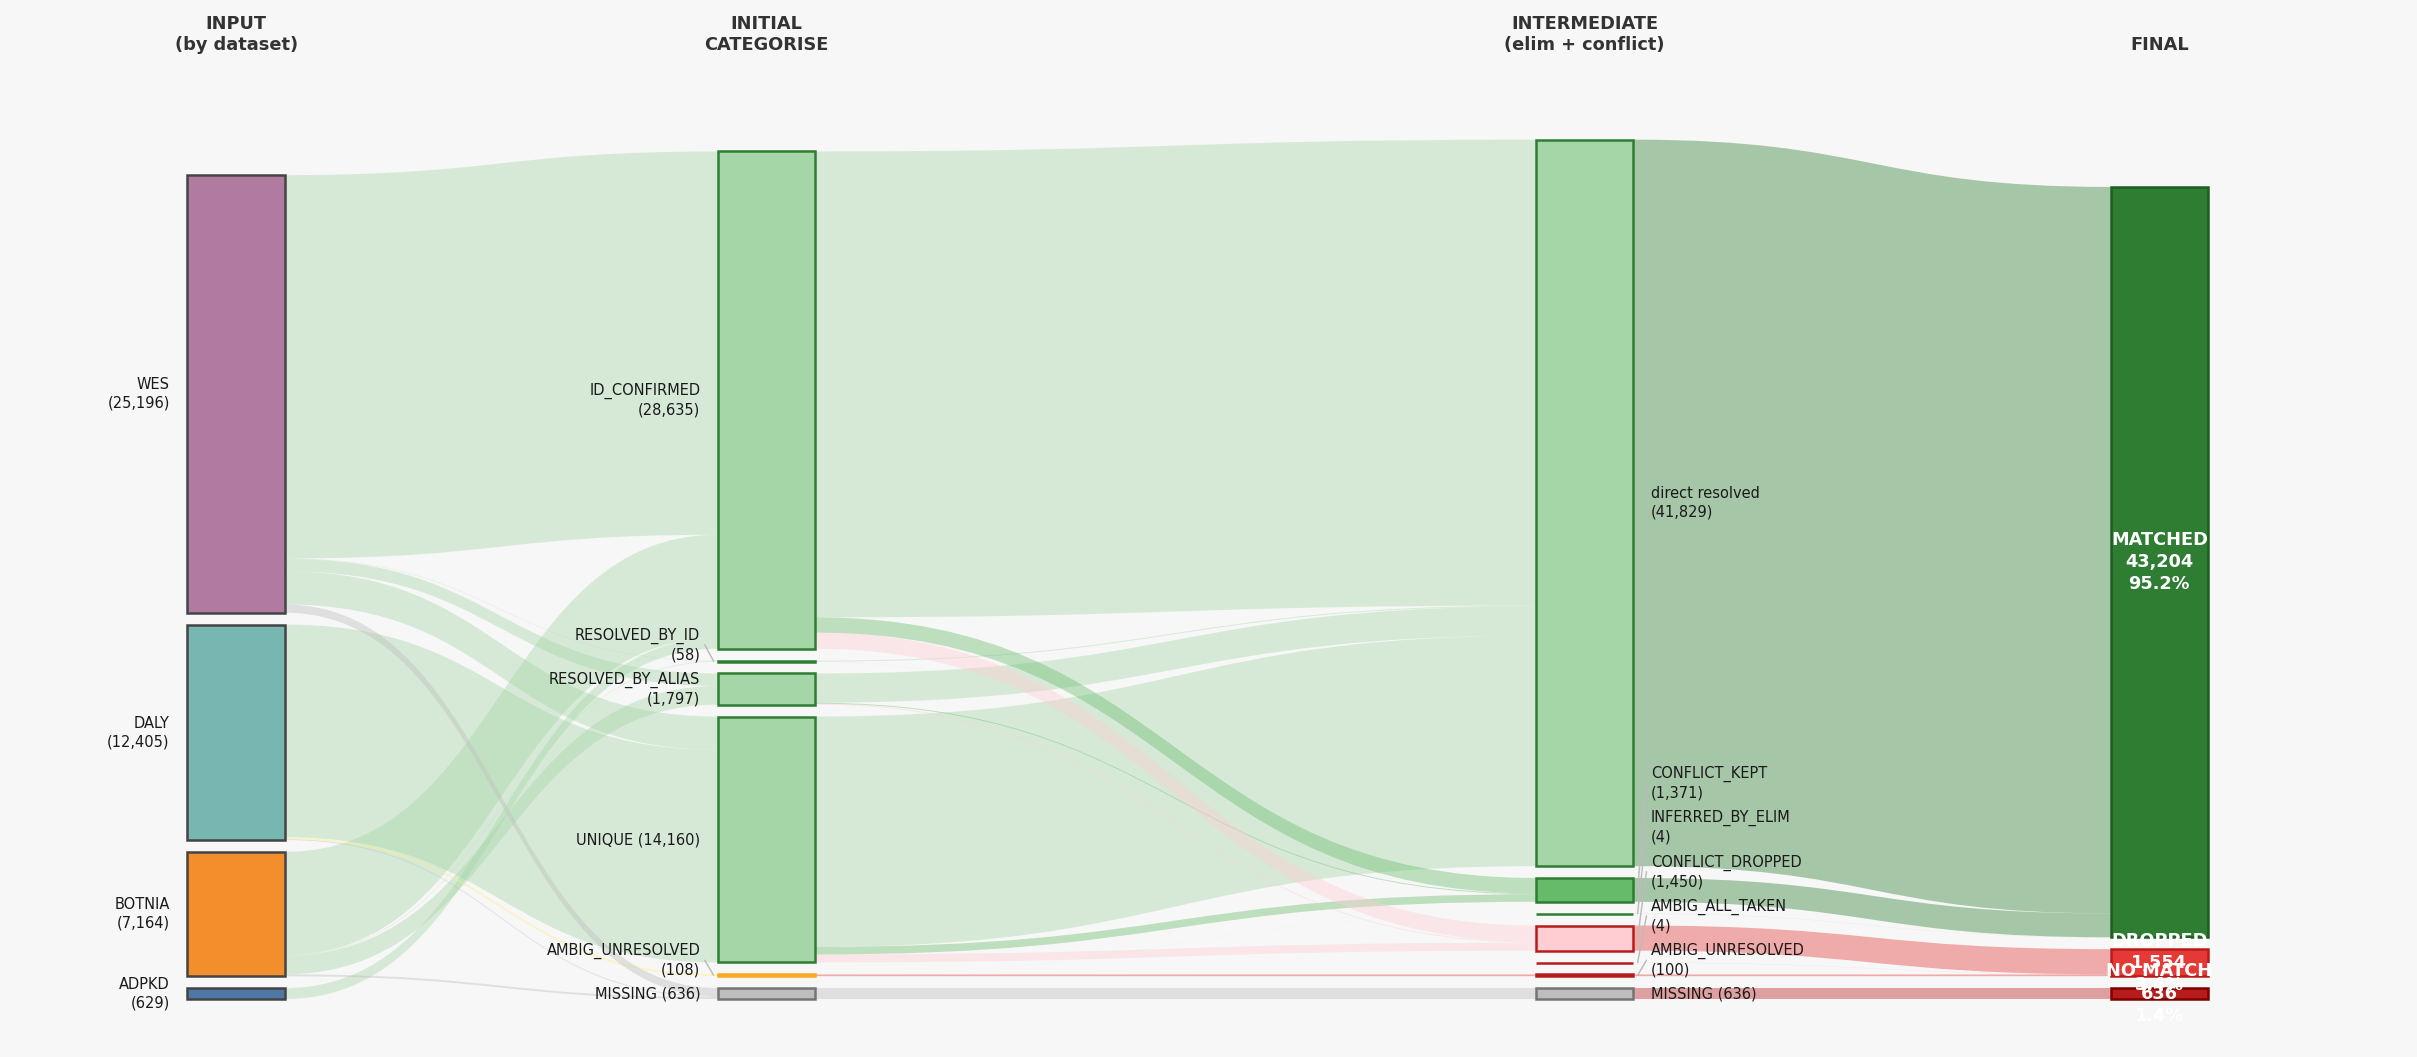
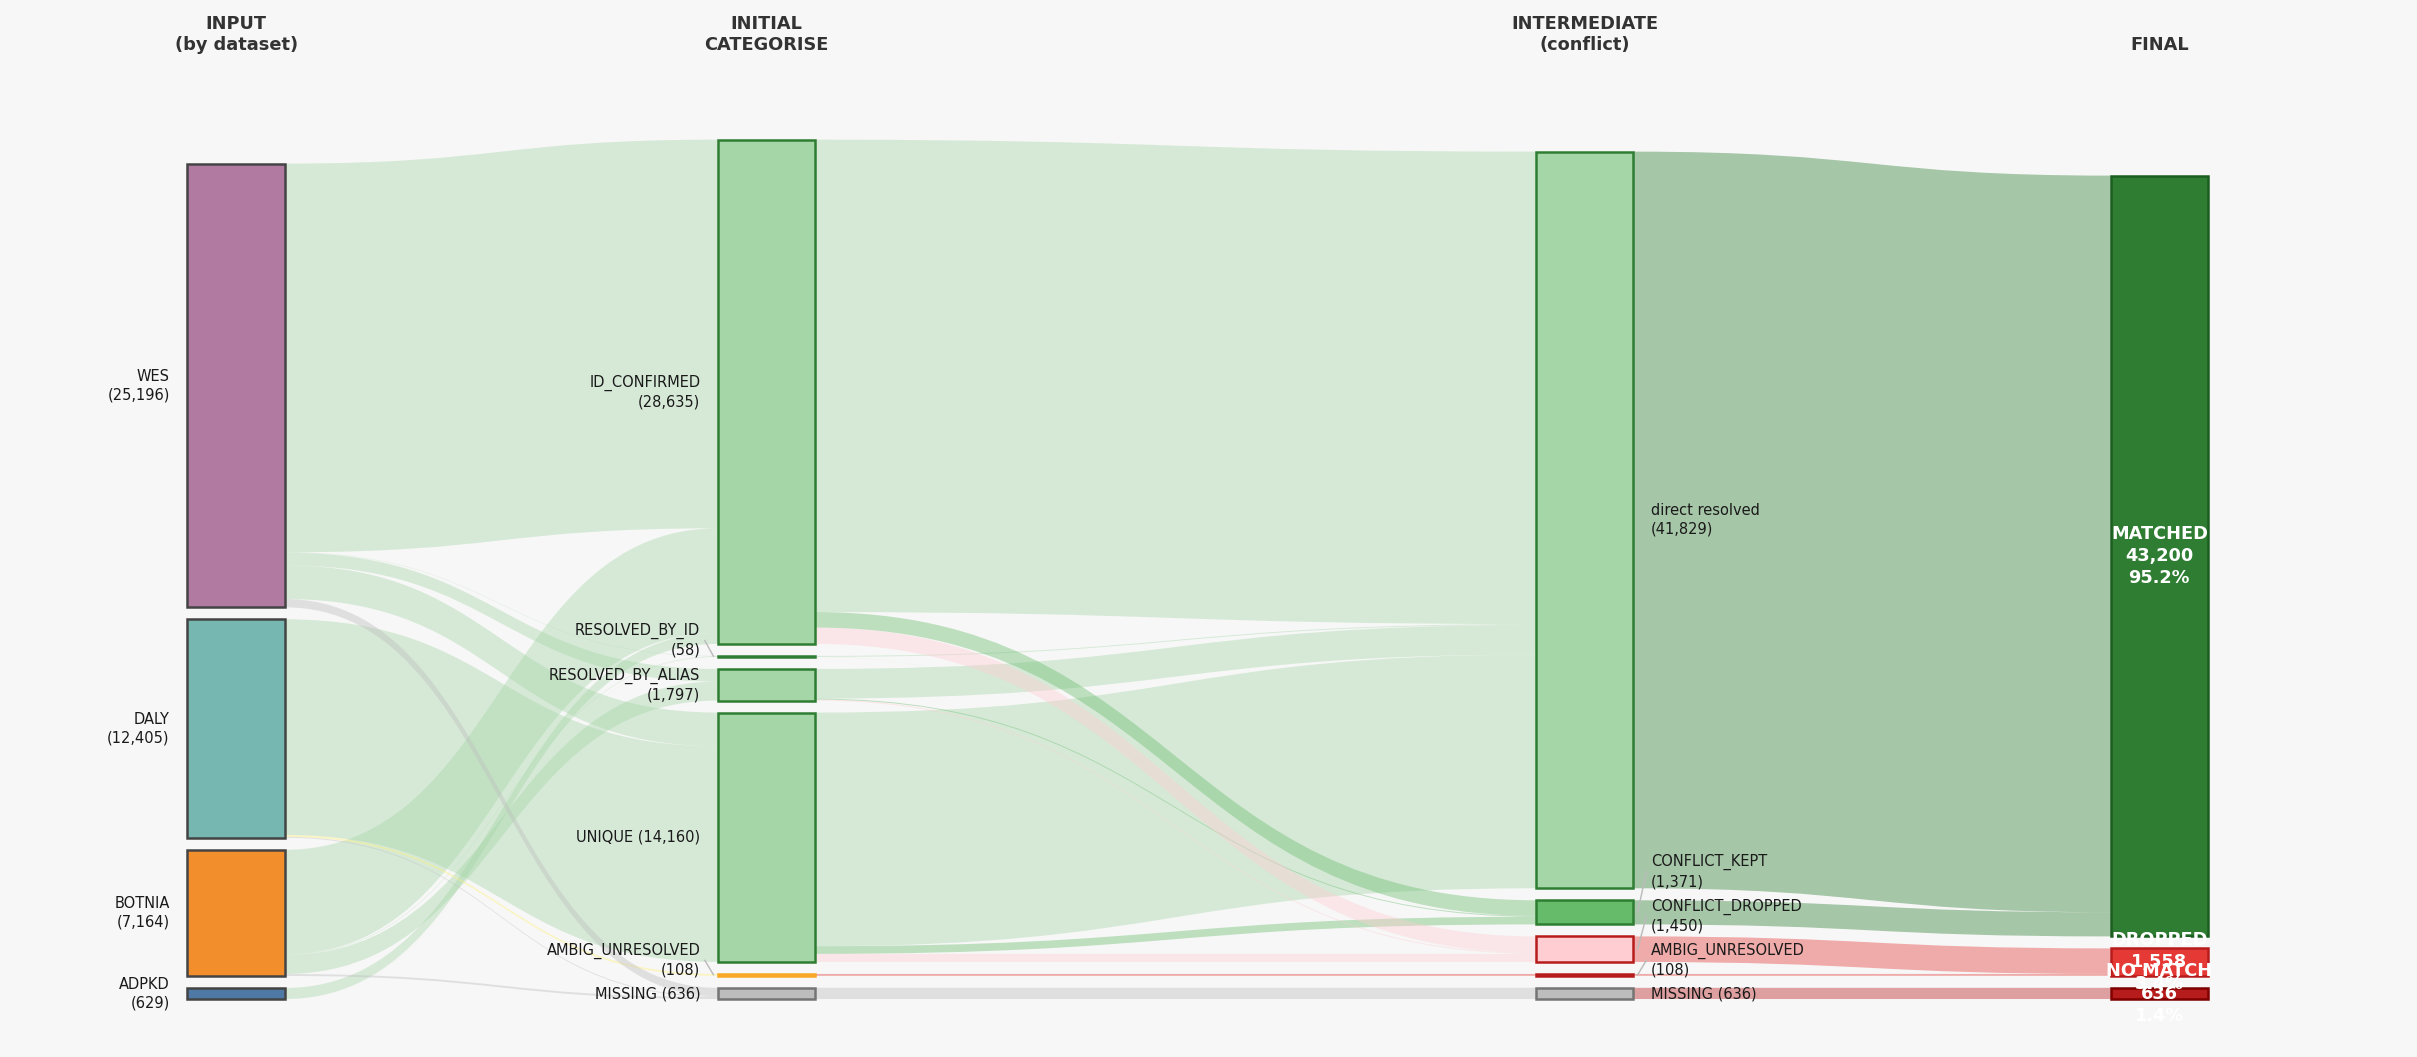
added README automation"

diff --git a/scripts/update_readme.py b/scripts/update_readme.py
@@ -1,0 +1,40 @@
+#!/usr/bin/env python3
+"""update_readme.py — inject file contents into README.md between path markers.
+
+Any block in README.md bounded by:
+    <!-- BEGIN:relative/path/to/file -->
+    ...
+    <!-- END:relative/path/to/file -->
+is replaced with the current contents of that file (path relative to repo root).
+
+Usage:
+    python scripts/update_readme.py
+"""
+import pathlib, re, sys
+
+REPO   = pathlib.Path(__file__).resolve().parent.parent
+README = REPO / "README.md"
+
+MARKER = re.compile(
+    r"<!-- BEGIN:(?P<path>[^>]+) -->\n(?:.*?\n)?<!-- END:(?P=path) -->",
+    re.DOTALL,
+)
+
+def update(text):
+    changed = 0
+    def replace(m):
+        nonlocal changed
+        rel   = m.group("path").strip()
+        src   = REPO / rel
+        if not src.exists():
+            print(f"  SKIP (not found): {rel}", file=sys.stderr)
+            return m.group(0)
+        content = src.read_text().strip()
+        changed += 1
+        print(f"  inject: {rel} ({len(content):,} chars)")
+        return f"<!-- BEGIN:{rel} -->\n{content}\n<!-- END:{rel} -->"
+    return MARKER.sub(replace, text), changed
+
+text, n = update(README.read_text())
+README.write_text(text)
+print(f"Done — {n} block(s) updated in {README.relative_to(REPO)}")

diff --git a/README.md b/README.md
@@ -6,12 +6,13 @@ Scripts and WDL workflows for QC-filtering and sample-matching multiple exome co
 
 ## Summary results
 
+<!-- BEGIN:data/FG_exome_resolved_stats.md -->
 ### Mapping Totals
 
 | GROUP | TOTAL | ADPKD | BOTNIA | DALY | WES | PCT | NOTES |
 | --- | --- | --- | --- | --- | --- | --- | --- |
-| MATCHED | 43204 | 624 | 7033 | 11955 | 23592 | 95.2% | samples with a final QRY→REF mapping in the output |
-| DROPPED | 1554 | 5 | 20 | 397 | 1132 | 3.4% | found by KING but excluded from final mapping |
+| MATCHED | 43200 | 624 | 7037 | 11845 | 23694 | 95.2% | samples with a final QRY→REF mapping in the output |
+| DROPPED | 1558 | 5 | 16 | 507 | 1030 | 3.4% | found by KING but excluded from final mapping |
 | NO MATCH | 636 | 0 | 111 | 53 | 472 | 1.4% | absent from ref or below KING concordance threshold |
 | TOTAL | 45394 | 629 | 7164 | 12405 | 25196 | 100.0% |  |
 
@@ -21,14 +22,13 @@ Scripts and WDL workflows for QC-filtering and sample-matching multiple exome co
 | --- | --- | --- | --- | --- | --- | --- | --- | --- |
 | MATCHED | ID_CONFIRMED | 28362 | 601 | 5937 | 0 | 21824 | 62.5% | single candidate; KING match confirmed by matching IDs |
 | MATCHED | RESOLVED_BY_ID | 58 | 6 | 31 | 0 | 21 | 0.1% | twins in ref; query ID matched one candidate |
-| MATCHED | RESOLVED_BY_ALIAS | 1883 | 0 | 1055 | 347 | 481 | 4.1% | twins in ref; candidates are known aliases of each other |
-| MATCHED | INFERRED_BY_ELIMINATION | 4 | 0 | 0 | 4 | 0 | 0.0% | twins in ref; all other candidates already claimed |
-| MATCHED | UNIQUE | 11526 | 0 | 1 | 11480 | 45 | 25.4% | single candidate; matched by genetics only |
-| MATCHED | CONFLICT_KEPT | 1371 | 17 | 9 | 124 | 1221 | 3.0% | contested ref ID; kept after priority tiebreak; 1371 ref IDs contested, avg 31.5 queries/ref |
-| DROPPED | CONFLICT_DROPPED | 1450 | 5 | 20 | 293 | 1132 | 3.2% | contested ref ID; lost tiebreak; REF_MAPPED = NA |
-| DROPPED | AMBIGUOUS_UNRESOLVED | 100 | 0 | 0 | 100 | 0 | 0.2% | multiple ref candidates; no resolution possible |
-| DROPPED | AMBIGUOUS_ALL_TAKEN | 4 | 0 | 0 | 4 | 0 | 0.0% | multiple ref candidates; all already claimed |
+| MATCHED | RESOLVED_BY_ALIAS | 1529 | 0 | 1054 | 0 | 475 | 3.4% | twins in ref; candidates are known aliases of each other |
+| MATCHED | UNIQUE | 11880 | 0 | 2 | 11827 | 51 | 26.2% | single candidate; matched by genetics only |
+| MATCHED | CONFLICT_KEPT | 1371 | 17 | 13 | 18 | 1323 | 3.0% | contested ref ID; kept after priority tiebreak; 1371 ref IDs contested, avg 31.5 queries/ref |
+| DROPPED | CONFLICT_DROPPED | 1450 | 5 | 16 | 399 | 1030 | 3.2% | contested ref ID; lost tiebreak; REF_MAPPED = NA |
+| DROPPED | AMBIGUOUS_UNRESOLVED | 108 | 0 | 0 | 108 | 0 | 0.2% | multiple ref candidates; no resolution possible |
 | NO MATCH | MISSING | 636 | 0 | 111 | 53 | 472 | 1.4% | no KING match found |
+<!-- END:data/FG_exome_resolved_stats.md -->
 
 ### Mapping flowchart
 
@@ -141,24 +141,23 @@ python scripts/resolve_mapping.py combined_summary.tsv [--out my_mapping.tsv] [-
 
 Handles two real-world complications: twins in the reference (one query matches multiple ref candidates) and true duplicates within a query cohort (multiple queries match the same ref ID).
 
-**Three passes:**
+**Two passes:**
 
 1. **Categorise** — each row classified independently:
    - Single candidate, IDs match → `ID_CONFIRMED` (genetic + ID agreement, strongest evidence)
    - Single candidate, IDs differ → `UNIQUE` (genetics only, the normal case)
    - Multiple candidates, query ID is one of them → `RESOLVED_BY_ID` (twins in ref; ID identifies the right one)
-   - Multiple candidates, no ID match → `AMBIGUOUS_UNRESOLVED`
+   - Multiple candidates, query is a known alias of one candidate → `RESOLVED_BY_ALIAS`
+   - Multiple candidates, no resolution → `AMBIGUOUS_UNRESOLVED`
 
-2. **Disambiguate by elimination** — for `AMBIGUOUS_UNRESOLVED` rows, candidates already claimed by resolved rows are removed; repeats until stable. One free candidate left → `INFERRED_BY_ELIMINATION`. Zero free candidates → `AMBIGUOUS_ALL_TAKEN`.
-
-3. **Surjectivity check** — each REF ID must appear at most once in the final mapping. Conflicts (multiple queries claiming the same ref) are broken by random draw for now (`CONFLICT_KEPT[orig]` / `CONFLICT_DROPPED[orig]`). TODO: replace with QC tiebreaker (concordance score, het-F, n_snps).
+2. **Surjectivity check** — each REF ID must appear at most once in the final mapping. Conflicts (multiple queries claiming the same ref) are broken by random draw for now (`CONFLICT_KEPT[orig]` / `CONFLICT_DROPPED[orig]`). TODO: replace with QC tiebreaker (concordance score, het-F, n_snps).
 
 **Output groups:**
 
 | Group | Statuses | Meaning |
 |-------|----------|---------|
-| **MATCHED** | `ID_CONFIRMED`, `RESOLVED_BY_ID`, `INFERRED_BY_ELIMINATION`, `UNIQUE`, `CONFLICT_KEPT[...]` | Has a final QRY→REF mapping in the output |
-| **DROPPED** | `CONFLICT_DROPPED[...]`, `AMBIGUOUS_UNRESOLVED`, `AMBIGUOUS_ALL_TAKEN` | Found by KING but excluded from final mapping |
+| **MATCHED** | `ID_CONFIRMED`, `RESOLVED_BY_ID`, `RESOLVED_BY_ALIAS`, `UNIQUE`, `CONFLICT_KEPT[...]` | Has a final QRY→REF mapping in the output |
+| **DROPPED** | `CONFLICT_DROPPED[...]`, `AMBIGUOUS_UNRESOLVED` | Found by KING but excluded from final mapping |
 | **NO MATCH** | `MISSING` | No KING match found |
 
 **Alias handling** — an optional tab-delimited file maps QRY IDs that are known aliases of REF IDs (one alias group per line, REF ID first). This is used solely to resolve QRY-side ambiguity: only the query is looked up in the alias file; REF candidates are treated as ground truth and never cross-referenced. A query in the alias file whose single candidate is listed as its alias → `RESOLVED_BY_ALIAS`; a query with multiple candidates where exactly one is in the query's alias group → also `RESOLVED_BY_ALIAS`. Alias IDs cannot appear in `REF_MAPPED`; a post-processing check enforces this.
@@ -169,69 +168,74 @@ Handles two real-world complications: twins in the reference (one query matches 
 python scripts/resolve_mapping.py --test
 ```
 
-The output below shows the built-in input, the alias groups used, and the resolved mapping for each row:
+The tables below show the built-in input, alias groups, resolved mapping, and check results (auto-updated by `scripts/resolve_mapping.py --test`):
 
-```
-====================================================================
-                    TEST MODE — built-in dataset                    
-====================================================================
+<!-- BEGIN:test/output.md -->
+### Input
 
-── INPUT ───────────────────────────────────────────────────────────
-DATASET       QUERY    DUPLICATES
-    ds1      REF001        REF001
-    ds1      QRY001        REF002
-    ds1   QRY_ALIAS   REF_ALIAS_A
-    ds1      REF_T1 REF_T1,REF_T2
-    ds1 QRY_T_ALIAS REF_T2,REF_T3
-    ds2      QRY003 REF003,REF004
-    ds2      QRY004        REF003
-    ds2      QRY005 REF005,REF006
-    ds2      QRY006        REF005
-    ds2      QRY007        REF006
-    ds2      QRY008       MISSING
-    ds2      QRY009        REF007
-    ds2      QRY010        REF007
-    ds2      QRY011 REF008,REF009
+| DATASET | QUERY | DUPLICATES |
+| --- | --- | --- |
+| ds1 | REF001 | REF001 |
+| ds1 | QRY001 | REF002 |
+| ds1 | QRY_ALIAS | REF_ALIAS_A |
+| ds1 | REF_T1 | REF_T1,REF_T2 |
+| ds1 | QRY_T_ALIAS | REF_T2,REF_T3 |
+| ds2 | QRY003 | REF003,REF004 |
+| ds2 | QRY004 | REF003 |
+| ds2 | QRY005 | REF005,REF006 |
+| ds2 | QRY006 | REF005 |
+| ds2 | QRY007 | REF006 |
+| ds2 | QRY008 | MISSING |
+| ds2 | QRY009 | REF007 |
+| ds2 | QRY010 | REF007 |
+| ds2 | QRY011 | REF008,REF009 |
 
-── ALIASES ─────────────────────────────────────────────────────────
-  QRY_ALIAS  ↔  REF_ALIAS_A
-  QRY_T_ALIAS  ↔  REF_T2
+### Aliases
 
-── OUTPUT ──────────────────────────────────────────────────────────
-DATASET       QUERY    DUPLICATES  REF_MAPPED                   STATUS              ALIAS_NOTE
-    ds1      REF001        REF001      REF001             ID_CONFIRMED                       —
-    ds1      QRY001        REF002      REF002                   UNIQUE                       —
-    ds1   QRY_ALIAS   REF_ALIAS_A REF_ALIAS_A        RESOLVED_BY_ALIAS                       —
-    ds1      REF_T1 REF_T1,REF_T2      REF_T1           RESOLVED_BY_ID                       —
-    ds1 QRY_T_ALIAS REF_T2,REF_T3      REF_T2        RESOLVED_BY_ALIAS                       —
-    ds2      QRY003 REF003,REF004      REF004  INFERRED_BY_ELIMINATION query_not_in_alias_file
-    ds2      QRY004        REF003      REF003                   UNIQUE                       —
-    ds2      QRY005 REF005,REF006   AMBIGUOUS      AMBIGUOUS_ALL_TAKEN query_not_in_alias_file
-    ds2      QRY006        REF005      REF005                   UNIQUE                       —
-    ds2      QRY007        REF006      REF006                   UNIQUE                       —
-    ds2      QRY008       MISSING          NA                  MISSING                       —
-    ds2      QRY009        REF007      REF007    CONFLICT_KEPT[UNIQUE]                       —
-    ds2      QRY010        REF007          NA CONFLICT_DROPPED[UNIQUE]                       —
-    ds2      QRY011 REF008,REF009   AMBIGUOUS     AMBIGUOUS_UNRESOLVED query_not_in_alias_file
+| Group |
+| --- |
+| `QRY_ALIAS` ↔ `REF_ALIAS_A` |
+| `QRY_T_ALIAS` ↔ `REF_T2` |
 
-── CHECKS ──────────────────────────────────────────────────────────
-  OK   REF001         status=ID_CONFIRMED                     ref=REF001
-  OK   QRY001         status=UNIQUE                           ref=REF002
-  OK   QRY_ALIAS      status=RESOLVED_BY_ALIAS                ref=REF_ALIAS_A
-  OK   REF_T1         status=RESOLVED_BY_ID                   ref=REF_T1
-  OK   QRY_T_ALIAS    status=RESOLVED_BY_ALIAS                ref=REF_T2
-  OK   QRY003         status=INFERRED_BY_ELIMINATION          ref=REF004
-  OK   QRY004         status=UNIQUE                           ref=REF003
-  OK   QRY005         status=AMBIGUOUS_ALL_TAKEN              ref=AMBIGUOUS
-  OK   QRY006         status=UNIQUE                           ref=REF005
-  OK   QRY007         status=UNIQUE                           ref=REF006
-  OK   QRY008         status=MISSING                          ref=NA
-  OK   QRY011         status=AMBIGUOUS_UNRESOLVED             ref=AMBIGUOUS
-  OK   QRY009+QRY010   1×CONFLICT_KEPT + 1×CONFLICT_DROPPED: yes
+### Output
 
-  13/13 checks passed — all passed
+| DATASET | QUERY | DUPLICATES | REF_MAPPED | STATUS | ALIAS_NOTE |
+| --- | --- | --- | --- | --- | --- |
+| ds1 | REF001 | REF001 | REF001 | ID_CONFIRMED | — |
+| ds1 | QRY001 | REF002 | REF002 | UNIQUE | — |
+| ds1 | QRY_ALIAS | REF_ALIAS_A | REF_ALIAS_A | RESOLVED_BY_ALIAS | — |
+| ds1 | REF_T1 | REF_T1,REF_T2 | REF_T1 | RESOLVED_BY_ID | — |
+| ds1 | QRY_T_ALIAS | REF_T2,REF_T3 | REF_T2 | RESOLVED_BY_ALIAS | — |
+| ds2 | QRY003 | REF003,REF004 | AMBIGUOUS | AMBIGUOUS_UNRESOLVED | query_not_in_alias_file |
+| ds2 | QRY004 | REF003 | REF003 | UNIQUE | — |
+| ds2 | QRY005 | REF005,REF006 | AMBIGUOUS | AMBIGUOUS_UNRESOLVED | query_not_in_alias_file |
+| ds2 | QRY006 | REF005 | REF005 | UNIQUE | — |
+| ds2 | QRY007 | REF006 | REF006 | UNIQUE | — |
+| ds2 | QRY008 | MISSING | NA | MISSING | — |
+| ds2 | QRY009 | REF007 | REF007 | CONFLICT_KEPT[UNIQUE] | — |
+| ds2 | QRY010 | REF007 | NA | CONFLICT_DROPPED[UNIQUE] | — |
+| ds2 | QRY011 | REF008,REF009 | AMBIGUOUS | AMBIGUOUS_UNRESOLVED | query_not_in_alias_file |
 
-```
+### Checks
+
+| QUERY | STATUS | REF_MAPPED |  |
+| --- | --- | --- | --- |
+| REF001 | ID_CONFIRMED | REF001 | ✓ |
+| QRY001 | UNIQUE | REF002 | ✓ |
+| QRY_ALIAS | RESOLVED_BY_ALIAS | REF_ALIAS_A | ✓ |
+| REF_T1 | RESOLVED_BY_ID | REF_T1 | ✓ |
+| QRY_T_ALIAS | RESOLVED_BY_ALIAS | REF_T2 | ✓ |
+| QRY003 | AMBIGUOUS_UNRESOLVED | AMBIGUOUS | ✓ |
+| QRY004 | UNIQUE | REF003 | ✓ |
+| QRY005 | AMBIGUOUS_UNRESOLVED | AMBIGUOUS | ✓ |
+| QRY006 | UNIQUE | REF005 | ✓ |
+| QRY007 | UNIQUE | REF006 | ✓ |
+| QRY008 | MISSING | NA | ✓ |
+| QRY011 | AMBIGUOUS_UNRESOLVED | AMBIGUOUS | ✓ |
+| QRY009+QRY010 | 1×CONFLICT_KEPT + 1×CONFLICT_DROPPED | — | ✓ |
+
+**13/13 checks — all passed**
+<!-- END:test/output.md -->
 
 
 

diff --git a/test/output.md b/test/output.md
@@ -1,0 +1,64 @@
+### Input
+
+| DATASET | QUERY | DUPLICATES |
+| --- | --- | --- |
+| ds1 | REF001 | REF001 |
+| ds1 | QRY001 | REF002 |
+| ds1 | QRY_ALIAS | REF_ALIAS_A |
+| ds1 | REF_T1 | REF_T1,REF_T2 |
+| ds1 | QRY_T_ALIAS | REF_T2,REF_T3 |
+| ds2 | QRY003 | REF003,REF004 |
+| ds2 | QRY004 | REF003 |
+| ds2 | QRY005 | REF005,REF006 |
+| ds2 | QRY006 | REF005 |
+| ds2 | QRY007 | REF006 |
+| ds2 | QRY008 | MISSING |
+| ds2 | QRY009 | REF007 |
+| ds2 | QRY010 | REF007 |
+| ds2 | QRY011 | REF008,REF009 |
+
+### Aliases
+
+| Group |
+| --- |
+| `QRY_ALIAS` ↔ `REF_ALIAS_A` |
+| `QRY_T_ALIAS` ↔ `REF_T2` |
+
+### Output
+
+| DATASET | QUERY | DUPLICATES | REF_MAPPED | STATUS | ALIAS_NOTE |
+| --- | --- | --- | --- | --- | --- |
+| ds1 | REF001 | REF001 | REF001 | ID_CONFIRMED | — |
+| ds1 | QRY001 | REF002 | REF002 | UNIQUE | — |
+| ds1 | QRY_ALIAS | REF_ALIAS_A | REF_ALIAS_A | RESOLVED_BY_ALIAS | — |
+| ds1 | REF_T1 | REF_T1,REF_T2 | REF_T1 | RESOLVED_BY_ID | — |
+| ds1 | QRY_T_ALIAS | REF_T2,REF_T3 | REF_T2 | RESOLVED_BY_ALIAS | — |
+| ds2 | QRY003 | REF003,REF004 | AMBIGUOUS | AMBIGUOUS_UNRESOLVED | query_not_in_alias_file |
+| ds2 | QRY004 | REF003 | REF003 | UNIQUE | — |
+| ds2 | QRY005 | REF005,REF006 | AMBIGUOUS | AMBIGUOUS_UNRESOLVED | query_not_in_alias_file |
+| ds2 | QRY006 | REF005 | REF005 | UNIQUE | — |
+| ds2 | QRY007 | REF006 | REF006 | UNIQUE | — |
+| ds2 | QRY008 | MISSING | NA | MISSING | — |
+| ds2 | QRY009 | REF007 | REF007 | CONFLICT_KEPT[UNIQUE] | — |
+| ds2 | QRY010 | REF007 | NA | CONFLICT_DROPPED[UNIQUE] | — |
+| ds2 | QRY011 | REF008,REF009 | AMBIGUOUS | AMBIGUOUS_UNRESOLVED | query_not_in_alias_file |
+
+### Checks
+
+| QUERY | STATUS | REF_MAPPED |  |
+| --- | --- | --- | --- |
+| REF001 | ID_CONFIRMED | REF001 | ✓ |
+| QRY001 | UNIQUE | REF002 | ✓ |
+| QRY_ALIAS | RESOLVED_BY_ALIAS | REF_ALIAS_A | ✓ |
+| REF_T1 | RESOLVED_BY_ID | REF_T1 | ✓ |
+| QRY_T_ALIAS | RESOLVED_BY_ALIAS | REF_T2 | ✓ |
+| QRY003 | AMBIGUOUS_UNRESOLVED | AMBIGUOUS | ✓ |
+| QRY004 | UNIQUE | REF003 | ✓ |
+| QRY005 | AMBIGUOUS_UNRESOLVED | AMBIGUOUS | ✓ |
+| QRY006 | UNIQUE | REF005 | ✓ |
+| QRY007 | UNIQUE | REF006 | ✓ |
+| QRY008 | MISSING | NA | ✓ |
+| QRY011 | AMBIGUOUS_UNRESOLVED | AMBIGUOUS | ✓ |
+| QRY009+QRY010 | 1×CONFLICT_KEPT + 1×CONFLICT_DROPPED | — | ✓ |
+
+**13/13 checks — all passed**
